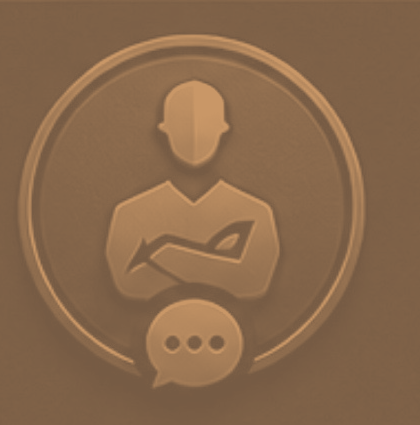
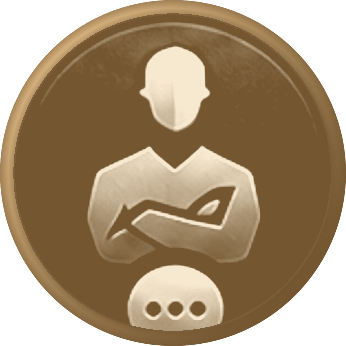
design(coach): the medallion loses its floating rim, and Alabaster gets its contrast back
PO: "I don't know if I like the 3d look of it. The sliver on the right side that's
outside of the outline" — and earlier, that the light variant read worse than the dark.

Two defects, both measured on the shipped assets rather than eyeballed.

THE SLIVER IS SHADING, NOT AN EDGE. Reading outward from the coin's fitted centre:
field and figure to R 152, then a DARK ring at R 153-157 (median luminance 4 of 255),
then the rim at R 159-173. That trench is the 3D disc's bevel and it runs the whole way
round; where the light catches it the bevel fills with bronze and the rim reads as part
of the coin, where it does not it stays black and the rim's highlight floats free. A crop
was tried first and did nothing, because there is no stray geometry to crop. The trench
is filled with the field's own colour and the rim redrawn as one flat ring.

ALABASTER COLLAPSED THE FIGURE INTO THE FIELD — relief against field, inside the coin:

    Forge, shipped        3.89 : 1
    Paper, shipped        1.58 : 1   <- the light-mode complaint
    Paper, now            4.08 : 1
    Forge, now            6.48 : 1

The old ramp squeezed the coin into luminance 95-158. #745730 -> #F7E9D0 lands Paper on
Forge's separation, and the disc measures 5.6:1 against the cream page, up from 4.9 — it
gained presence rather than punching a hole. The light end stops at warm ivory because
near-white scores better and renders the coach in PEWTER, which holt-mark-paper.py had
already recorded once.
[…]

diff --git a/src/app/(tabs)/index.tsx b/src/app/(tabs)/index.tsx
@@ -234,9 +234,21 @@ function ProgramPathChooser({
             <Text style={styles.pathCardTitle}>Build it with me</Text>
             <Text style={styles.pathCardSub}>Coach Holt asks what you&apos;re after, then writes the block around it.</Text>
           </View>
-          {/* Low visual weight on purpose — it is a signature, not an illustration. */}
+          {/*
+            Low visual weight on purpose — it is a signature, not an illustration.
+
+            ⚠ 44, NOT 54. It was 54, which made this the LARGEST Holt in the app — bigger than the
+            floating coin that is his actual tap target — while its own comment called it low weight.
+            The 2026-08-26 artwork pass closed the medallion's 9% dead margin so the coin now fills its
+            frame, which made the same number read about a tenth larger again: at 54 the mark stood as
+            tall as the title and sub-line together and pushed the sub into a different wrap.
+
+            The ladder is now hierarchy rather than drift — 52 floating coin · 44 here · 40 chat gutter
+            · 34 session sheet header. Below 44 the row regains enough width that the sub-line reflows,
+            so this is also the smallest it can be without moving the copy.
+          */}
           <View style={styles.leadMark}>
-            <HoltMark size={54} />
+            <HoltMark size={44} />
           </View>
           <ChevronRightIcon size={18} color={flColor.bronze400} />
         </View>

diff --git a/scripts/artwork/holt-mark.py b/scripts/artwork/holt-mark.py
@@ -1,0 +1,206 @@
+#!/usr/bin/env python3
+"""Strike BOTH of Coach Holt's medallions from the one master.
+
+    python scripts/artwork/holt-mark.py
+
+Reads  assets/images/coach-holt-mark.master.png   (the pristine artwork, NEVER written)
+Writes assets/images/coach-holt-mark.png          (Forge, shipped)
+       assets/images/coach-holt-mark-paper.png    (Alabaster, shipped)
+
+⚠ THIS SUPERSEDES `holt-mark-paper.py`. That script read the SHIPPED Forge file as its source
+  and wrote only the Paper variant. Both shipped files are now generated output, so its source
+  would be an already-processed image — running it re-ramps a ramp. It has been left in place
+  with a deprecation banner; this is the one to run.
+
+══ WHAT THIS FIXES, MEASURED ══
+
+PO, 2026-08-26: *"I don't know if I like the 3d look of it. The sliver on the right side that's
+outside of the outline"* — and earlier, that the light variant read worse than the dark one.
+
+Two separate defects, both measured on the shipped assets rather than eyeballed.
+
+1. THE SLIVER IS SHADING, NOT AN EDGE. Reading outward from the coin's fitted centre
+   (192.5, 207.0 in master pixels):
+
+       R < 152      field + figure
+       R 153-157    a DARK ring, median luminance 4 of 255   <- the 3D disc's bevel
+       R 159-173    the rim
+       R > 174      nothing
+
+   That trench runs the whole way round. Where the light catches it (lower-left) it fills with
+   bronze and the rim reads as part of the coin; where it does not (upper-right) it stays black
+   and the rim's highlight floats free as a thin crescent. Cropping was tried first and does
+   nothing, because there is no stray geometry to crop — so the trench is filled with the
+   field's own colour and the rim is redrawn as one flat ring.
+
+2. ALABASTER COLLAPSED THE FIGURE INTO THE FIELD. Measured inside the coin, relief against field:
+
+       Forge master          3.89 : 1
+       Paper (old ramp)      1.58 : 1   <- the light-mode complaint
+       Paper (this script)   4.08 : 1
+       Forge (this script)   6.48 : 1
+
+   The old ramp (#765B44 -> #C99767, gamma 0.80) squeezed the whole medallion into luminance
+   95-158. Widening it to #745730 -> #F7E9D0 with the midtones pushed apart lands Paper on
+   Forge's separation, and the disc still measures 5.6:1 against Alabaster's #F4F0E6 page
+   (up from 4.9:1) - so it gained presence rather than punching a hole.
+
+⚠ THE LIGHT END STOPS AT WARM IVORY ON PURPOSE. `holt-mark-paper.py`'s header already recorded
+  that neutral-ended ramps come out PEWTER. Confirmed again here: pushing the light end to
+  near-white (#FDF7EC) scores better on separation and renders as a silver coach on bronze.
+  #F7E9D0 is the furthest the ramp goes while the metal still reads as bronze.
+
+⚠ FORGE IS TONED, NOT RE-RAMPED. Its lift is applied as a per-pixel gain on the master's own
+  RGB, so the rim keeps reading as a different piece of metal from the field. Mapping Forge
+  through a luminance ramp the way Paper is mapped flattens that colour variation.
+"""
+
+from pathlib import Path
+import sys
+
+import numpy as np
+from PIL import Image, ImageFilter
+
+ROOT = Path(__file__).resolve().parents[2]
+SRC = ROOT / 'assets' / 'images' / 'coach-holt-mark.master.png'
+OUT_FORGE = ROOT / 'assets' / 'images' / 'coach-holt-mark.png'
+OUT_PAPER = ROOT / 'assets' / 'images' / 'coach-holt-mark-paper.png'
+
+# ── coin geometry in master pixels, fitted to the rim (see module docstring) ──────────
+CX, CY = 192.5, 207.0
+R_FIELD = 159.0          # field + figure kept inside this
+R_OUT = 173.0            # the coin's true outer edge
+TRENCH_FROM = 143.0      # where to start hunting the bevel trench
+
+# ── per-theme metal ──────────────────────────────────────────────────────────────────
+PAPER_RAMP = ((116, 87, 49), (247, 233, 208))   # #745731 -> #F7E9D0
+PAPER_GAMMA, PAPER_SHARPEN = 0.90, 1.70
+FORGE_ENDS = (11, 233)                           # the master's own luminance endpoints
+FORGE_SHARPEN = 1.10
+
+RIM = {
+    'forge': ((88, 67, 44), (226, 190, 148)),
+    # Paper's highlight stops well short of the page (#F4F0E6) so the coin keeps a
+    # silhouette against cream instead of dissolving into it at the lit edge.
+    'paper': ((116, 87, 49), (214, 177, 126)),
+}
+SEAM = {'forge': (26, 20, 15), 'paper': (122, 95, 58)}
+LIGHT_DEG = 225.0        # one light source, upper-left
+CROWN = 0.45             # how much the ring brightens across its width
+
+
+def _lum(rgb):
+    return 0.2126 * rgb[..., 0] + 0.7152 * rgb[..., 1] + 0.0722 * rgb[..., 2]
+
+
+def _denoise(lum, k=3):
+    """A median kernel: kills the struck field's speckle without rounding the relief's
+    edges the way a blur does. The speckle is detail at 200px and mush below about 48."""
+    return np.asarray(
+        Image.fromarray(np.clip(lum, 0, 255).astype(np.uint8)).filter(ImageFilter.MedianFilter(k)),
+        dtype=float)
+
+
+def _tone(lum, sharpen, gamma):
+    """Normalise on the master's own 1st-99th percentile, then push the midtones apart.
+
+    ⚠ PERCENTILE, NOT [0,255]. The master is very dark (median luminance 11), so a linear
+      map puts the entire coin within a few percent of the dark end - a flat disc with no
+      relief. This is the same reasoning `holt-mark-paper.py` recorded."""
+    lo, hi = np.percentile(lum, 1), np.percentile(lum, 99)
+    t = np.clip((lum - lo) / max(hi - lo, 1e-6), 0, 1)
+    t = np.clip(0.5 + (t - 0.5) * sharpen, 0, 1)
+    return t ** gamma
+
+
+def _load():
+    if not SRC.exists():
+        sys.exit('missing master: %s\n(it is the pristine artwork; restore it from git history '
+                 'rather than pointing this script at a shipped file)' % SRC)
+    return Image.open(SRC).convert('RGBA')
+
+
+def forge_plate():
+    im = _load()
+    rgb = np.asarray(im.convert('RGB')).astype(float)
+    old = _lum(rgb)
+    clean = _denoise(old)
+    t = _tone(clean, FORGE_SHARPEN, 1.0)
+    target = FORGE_ENDS[0] + (FORGE_ENDS[1] - FORGE_ENDS[0]) * t
+    gain = np.clip(target / np.maximum(clean, 1.0), 0, 6)[..., None]
+    base = rgb * (np.maximum(clean, 1.0) / np.maximum(old, 1.0))[..., None]
+    return np.clip(base * gain, 0, 255)
+
+
+def paper_plate():
+    im = _load()
+    rgb = np.asarray(im.convert('RGB')).astype(float)
+    lum = _denoise(_lum(rgb))
+    t = _tone(lum, PAPER_SHARPEN, PAPER_GAMMA)
+    d, l = np.array(PAPER_RAMP[0], float), np.array(PAPER_RAMP[1], float)
+    return np.clip(d + (l - d) * t[..., None], 0, 255)
+
+
+def strike(plate, theme):
+    """Fill the bevel trench, redraw the rim as one flat ring, cut a clean circle."""
+    H, W = plate.shape[:2]
+    S = int(round(R_OUT * 2))
+    oy, ox = np.mgrid[0:S, 0:S]
+    r = np.hypot(ox - S / 2.0 + 0.5, oy - S / 2.0 + 0.5)
+    ang = np.degrees(np.arctan2(oy - S / 2.0, ox - S / 2.0)) % 360
+
+    xi = np.clip((ox - S / 2.0 + CX).astype(int), 0, W - 1)
+    yi = np.clip((oy - S / 2.0 + CY).astype(int), 0, H - 1)
+    out = plate[yi, xi].copy()
+
+    # 1. Fill the trench with the field's own colour - but ONLY where it is actually dark,
+    #    so the bottom of the speech bubble (which reaches R~152) survives.
+    lum = _lum(out)
+    inner = (r >= 118) & (r <= 142)
+    ref_lum = np.median(lum[inner])
+    ref_rgb = np.median(out[inner & (lum < ref_lum * 1.35)], axis=0)
+    out[(r >= TRENCH_FROM) & (r < R_FIELD) & (lum < ref_lum * 0.82)] = ref_rgb
+
+    # 2. One flat ring, lit from a single direction.
+    lo, hi = np.array(RIM[theme][0], float), np.array(RIM[theme][1], float)
+    lit = (0.5 + 0.5 * np.cos(np.radians(ang - LIGHT_DEG))) ** 1.15
+    band = np.clip((r - R_FIELD) / max(R_OUT - R_FIELD, 1e-6), 0, 1)
+    crown = 1.0 - CROWN * np.abs(band - 0.42) / 0.58
+    shade = np.clip(lit * crown, 0, 1)[..., None]
+    in_rim = (r >= R_FIELD) & (r <= R_OUT)
+    out[in_rim] = (lo + (hi - lo) * shade)[in_rim]
+
+    # 3. A 1px seam, so it still reads as struck rather than printed.
+    out[(r >= R_FIELD - 1.2) & (r < R_FIELD + 0.6)] = np.array(SEAM[theme], float)
+
+    alpha = np.clip((R_OUT - r) * 1.6 + 0.5, 0, 1) * 255.0
+    return Image.fromarray(
+        np.dstack([np.clip(out, 0, 255).astype(np.uint8), alpha.astype(np.uint8)]), 'RGBA')
+
+
+def separation(im, label):
+    """Relief against field, inside the coin. The number the PO's complaint was about."""
+    rgb = np.asarray(im.convert('RGB')).astype(float)
+    lum = _lum(rgb)
+    h, w = lum.shape
+    yy, xx = np.mgrid[0:h, 0:w]
+    disc = np.hypot(xx - w / 2, yy - h / 2) < min(w, h) / 2 * 0.86
+    d = lum[disc]
+    mid = (np.percentile(d, 5) + np.percentile(d, 95)) / 2
+
+    def lin(v):
+        v = np.asarray(v) / 255.0
+        return np.where(v <= 0.04045, v / 12.92, ((v + 0.055) / 1.055) ** 2.4).mean()
+
+    a, b = lin(d[d < mid].mean()), lin(d[d >= mid].mean())
+    print('  %-24s separation %.2f:1' % (label, (max(a, b) + 0.05) / (min(a, b) + 0.05)))
+
+
+if __name__ == '__main__':
+    f = strike(forge_plate(), 'forge')
+    p = strike(paper_plate(), 'paper')
+    f.save(OUT_FORGE)
+    p.save(OUT_PAPER)
+    print('wrote %s and %s  (%dx%d)' % (OUT_FORGE.name, OUT_PAPER.name, *f.size))
+    separation(f, 'forge')
+    separation(p, 'paper')

diff --git a/scripts/artwork/holt-mark-paper.py b/scripts/artwork/holt-mark-paper.py
@@ -1,5 +1,21 @@
 #!/usr/bin/env python3
 """
+⛔ SUPERSEDED 2026-08-26 — DO NOT RUN. Use `scripts/artwork/holt-mark.py` instead.
+
+   Its premise no longer holds. This script reads `coach-holt-mark.png` as "the Forge master,
+   never written" — but that file is now GENERATED OUTPUT, so running this re-ramps an already
+   ramped image and regresses the Paper variant. The pristine artwork moved to
+   `coach-holt-mark.master.png`.
+
+   Two defects were fixed after this script was written, both measured rather than eyeballed:
+     · the ramp below squeezed the coin to 1.58:1 relief-against-field, where Forge sits at
+       3.89:1 — the light variant read as mush. The replacement lands 4.08:1.
+     · the coin's 3D bevel left a dark trench at R 153-157 whose unlit side made the rim's
+       highlight float free of the body on the upper right (the PO's "sliver").
+
+   Kept only for the ramp reasoning in the header below, which is still correct and is carried
+   forward in the replacement: neutral-ended ramps come out PEWTER.
+
 Strike Coach Holt's medallion in Alabaster's metal.
 
     python scripts/artwork/holt-mark-paper.py
@@ -112,4 +128,11 @@ def main() -> int:
 
 
 if __name__ == '__main__':
+    sys.exit(
+        'SUPERSEDED: run scripts/artwork/holt-mark.py instead.\n'
+        'This script would read a generated file as its master and re-ramp it.'
+    )
+
+
+def _retired_main():
     raise SystemExit(main())
